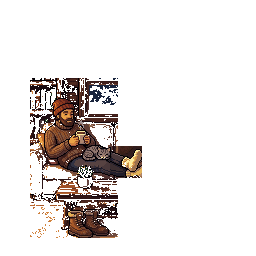
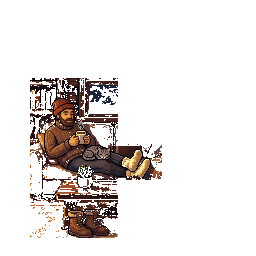
Couch: whole feet on the blanket; park the headphones until they can be painted into his sprites
Claude-Session: https://claude.ai/code/session_01MJHAbDc8GE5C3zMaFTW5Js

Changed region(s): [[0.5, 0.5625, 0.6562, 0.7188]]

diff --git a/src/actors.js b/src/actors.js
@@ -78,8 +78,11 @@
 
   // While you just watch, he is listening to music: headphones over his hat and little notes
   // drifting up. Scenes call this right after drawing him, with the top of his head.
+  // Switched off for now: drawn over the beanie they never sat on his ears properly. Doing it right
+  // means painting them into his sprites (a future feature); flip this on to bring them back.
+  SE.HEADPHONES = false;
   SE.headphones = function (ctx, x, y, scale = 1) {
-    if (!SE.watching()) return;
+    if (!SE.HEADPHONES || !SE.watching()) return;
     x = Math.round(x); y = Math.round(y);
     const k = Math.max(1, Math.round(scale)), px = (dx, dy, w, h, c) => { ctx.fillStyle = c; ctx.fillRect(x + dx * k, y + dy * k, w * k, h * k); };
     px(-6, -2, 13, 1, '#1b1720');                          // the band arching over his hat

diff --git a/src/engine.js b/src/engine.js
@@ -462,8 +462,9 @@ SE.toggleWatch = function () {
   SE.save.settings.watch = !SE.save.settings.watch;
   SE.persist();
   SE.toast(SE.save.settings.watch ? 'Just watching — sit back and enjoy.' : 'Your turn again — the activities are all yours.', '#ffe6b8');
-  // sitting back to just watch: he puts his headphones on first (and keeps them on while you watch)
-  if (SE.save.settings.watch && SE.moment) SE.moment('music', { force: true });
+  // sitting back to just watch: he puts his headphones on first (and keeps them on while you watch).
+  // Parked for now (see SE.HEADPHONES in actors.js).
+  if (SE.HEADPHONES && SE.save.settings.watch && SE.moment) SE.moment('music', { force: true });
 };
 
 SE.PROPS = [

diff --git a/docs/PROGRESS.md b/docs/PROGRESS.md
@@ -124,3 +124,5 @@
 - Cabin: Mochi no longer sits in the middle of the couch. Her spots are the two armrests, the corner of the couch back, the window sill, the bookshelf top, the coffee table, the rug and the doormat.
 - PixelLab budget: 119 generations left until 2026-11-13.
 - Couch: the cross-legged sprite (which looked like he sat on the coffee table) is gone. couch_scene is a PixelLab inpaint of the living room: he leans back on the left cushion in a knit sweater, his socked feet up on the seat, the boots on the rug, Mochi asleep on his lap. A sip plays couch_sip (PixelLab animate_image, 10 frames): the mug goes up to his lips and back down, with the slurp halfway.
+- Couch: both socked feet are whole now (a third inpaint where they met the plaid blanket).
+- Headphones are parked (SE.HEADPHONES = false): drawn on top of the beanie they never sat on his ears in any scene. The "music" put-them-on cutscene is skipped too. Future feature: paint headphones into his sprites/stills (PixelLab edit of each pose) and switch the flag back on.
